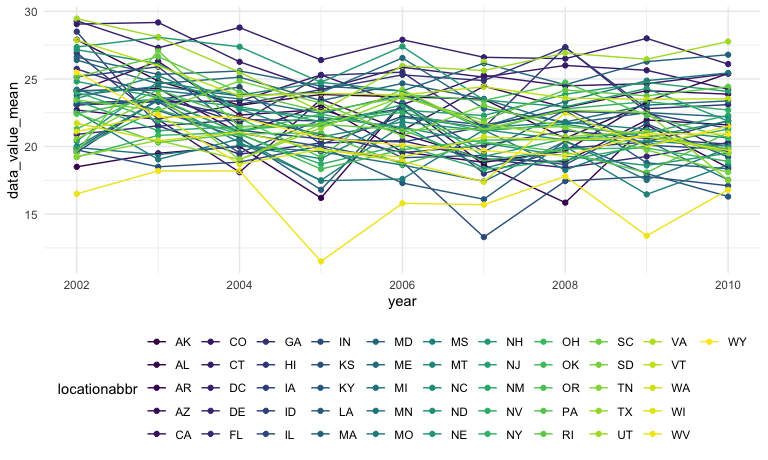
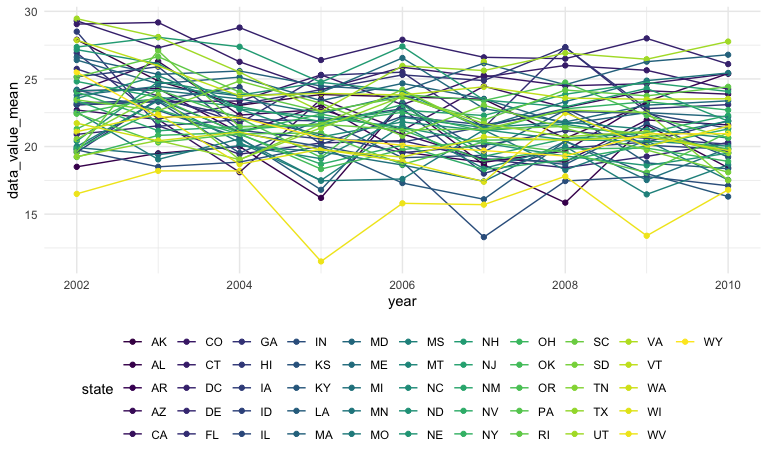
modify spagt plot

Changed region(s): [[0.0625, 0.7304, 0.9688, 0.8826], [0.1562, 0.8826, 0.9062, 0.9739]]

diff --git a/p8105_hw3_yw3996.md b/p8105_hw3_yw3996.md
@@ -292,8 +292,9 @@ dat = brfss|>
 
 ``` r
 dat|>
+  rename("state"="locationabbr")|>
   ggplot(aes(x = year, y = data_value_mean, 
-             color = locationabbr)) + 
+             color =state )) + 
   geom_point() + geom_line() + 
   theme(legend.position = "bottom")+
   guides(color = guide_legend(nrow = 5))
